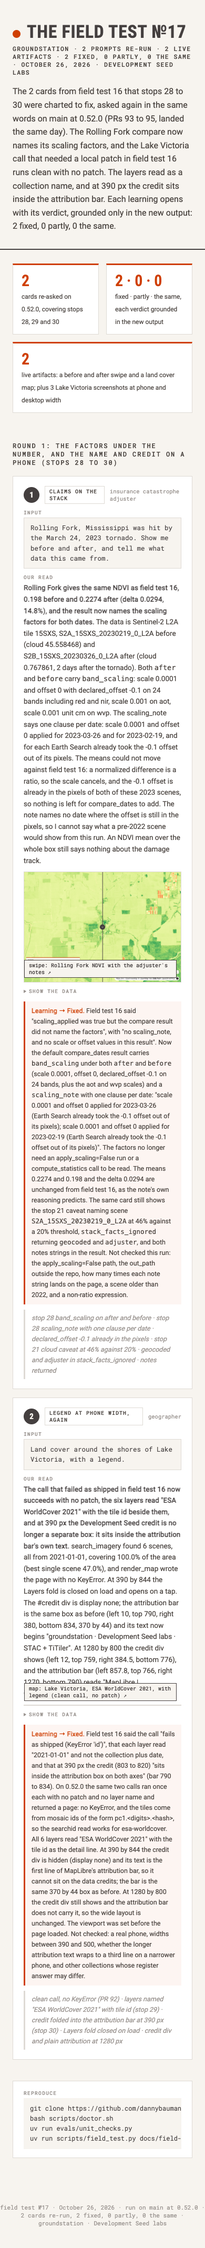
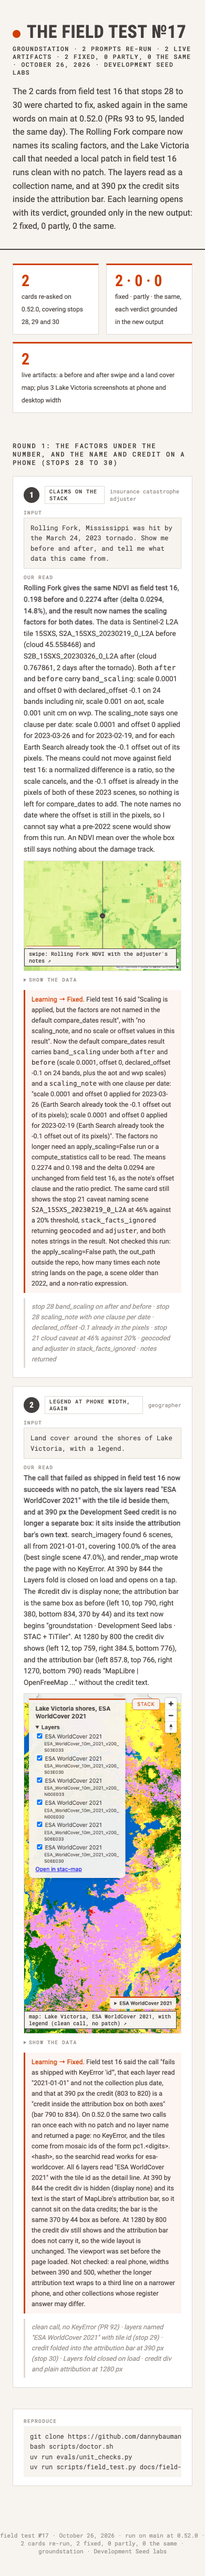
docs: field test 17, quotes verbatim and the 390 page shot with both figures loaded

diff --git a/docs/field-test-2026-10-26-no17.html b/docs/field-test-2026-10-26-no17.html
@@ -73,7 +73,7 @@ footer { text-align: center; font: 400 11px 'Roboto Mono', monospace; color: var
 <div class="grid">
 <div class="card"><div class="top"><div class="num">1</div><div class="tag">claims on the stack</div><div class="who">insurance catastrophe adjuster</div></div>
 <div><div class="label">Input</div><div class="prompt">Rolling Fork, Mississippi was hit by the March 24, 2023 tornado. Show me before and after, and tell me what data this came from.</div></div>
-<div class="answer"><div class="label">Our read</div><b>Rolling Fork gives the same NDVI as field test 16, 0.198 before and 0.2274 after (delta 0.0294, 14.8%), and the result now names the scaling factors for both dates.</b> The data is Sentinel-2 L2A tile 15SXS, S2A_15SXS_20230219_0_L2A before (cloud 45.558468) and S2B_15SXS_20230326_0_L2A after (cloud 0.767861, 2 days after the tornado). Both <code>after</code> and <code>before</code> carry <code>band_scaling</code>: scale 0.0001 and offset 0 with declared_offset -0.1 on 24 bands including red and nir, scale 0.001 on aot, scale 0.001 unit cm on wvp. The scaling_note says one clause per date: scale 0.0001 and offset 0 applied for 2023-03-26 and for 2023-02-19, and for each Earth Search already took the -0.1 offset out of its pixels. The means could not move against field test 16: a normalized difference is a ratio, so the scale cancels, and the -0.1 offset is already in the pixels of both of these 2023 scenes, so nothing is left for compare_dates to add. The note names no date where the offset is still in the pixels, so I cannot say what a pre-2022 scene would show from this run. An NDVI mean over the whole box still says nothing about the damage track.</div>
+<div class="answer"><div class="label">Our read</div><b>Rolling Fork gives the same NDVI as field test 16, 0.198 before and 0.2274 after (delta 0.0294, 14.8%), and the result now names the scaling factors for both dates.</b> The data is Sentinel-2 L2A tile 15SXS, S2A_15SXS_20230219_0_L2A before (cloud 45.558468) and S2B_15SXS_20230326_0_L2A after (cloud 0.767861, 2 days after the tornado). Both <code>after</code> and <code>before</code> carry <code>band_scaling</code>: scale 0.0001 and offset 0 with declared_offset -0.1 on 24 bands including nir, scale 0.001 on aot, scale 0.001 unit cm on wvp. The scaling_note says one clause per date: scale 0.0001 and offset 0 applied for 2023-03-26 and for 2023-02-19, and for each Earth Search already took the -0.1 offset out of its pixels. The means could not move against field test 16: a normalized difference is a ratio, so the scale cancels, and the -0.1 offset is already in the pixels of both of these 2023 scenes, so nothing is left for compare_dates to add. The note names no date where the offset is still in the pixels, so I cannot say what a pre-2022 scene would show from this run. An NDVI mean over the whole box still says nothing about the damage track.</div>
 <a class="fig" href="img/ft17-place-rolling-fork.html" target="_blank" title="open the live artifact"><img src="img/ft17-place-rolling-fork.png" alt="artifact produced by example 1" loading="lazy"><span class="open">swipe: Rolling Fork NDVI with the adjuster's notes ↗</span></a>
 <details class="data"><summary>show the data</summary><div class="returned">compare_dates(bbox=[-90.95, 32.86, -90.8, 32.96], window_before="2023-02-15T00:00:00Z/2023-03-23T23:59:59Z", window_after="2023-03-25T00:00:00Z/2023-04-01T23:59:59Z", max_cloud_cover=50, label="Rolling Fork NDVI", stack_facts={"geocoded": "nominatim", "adjuster": "claim file RF-2023-0324"}, out_path="docs/img/ft17-place-rolling-fork.html", notes=["Claim event: EF4 tornado, 2023-03-24, NWS Jackson", "Track hand-drawn from the damage survey, not from this imagery"])
   tile: 15SXS
@@ -92,7 +92,7 @@ footer { text-align: center; font: 400 11px 'Roboto Mono', monospace; color: var
   notes: ["Claim event: EF4 tornado, 2023-03-24, NWS Jackson", "Track hand-drawn from the damage survey, not from this imagery"]
   stack_facts_ignored: ["geocoded", "adjuster"]
   note: stack_facts takes provenance flags only (events, weather, passes, terrain, snapshot; geocoded is kept only for a bbox geocode returned, with the source it returned); put free text in notes</div></details>
-<div class="learning"><b>Learning →</b> <b>Fixed.</b> Field test 16 said "scaling_applied was true but the compare result did not name the factors", with "no scaling_note, and no scale or offset values in this result". Now the default compare_dates result carries <code>band_scaling</code> under both <code>after</code> and <code>before</code> (scale 0.0001, offset 0, declared_offset -0.1 on 24 bands, plus the aot and wvp scales) and a <code>scaling_note</code> with one clause per date: "scale 0.0001 and offset 0 applied for 2023-03-26 (Earth Search already took the -0.1 offset out of its pixels); scale 0.0001 and offset 0 applied for 2023-02-19 (Earth Search already took the -0.1 offset out of its pixels)". The factors no longer need an apply_scaling=False run or a compute_statistics call to be read. The means 0.2274 and 0.198 and the delta 0.0294 are unchanged from field test 16, as the note's own reasoning predicts. The same card still shows the stop 21 caveat naming scene <code>S2A_15SXS_20230219_0_L2A</code> at 46% against a 20% threshold, <code>stack_facts_ignored</code> returning <code>geocoded</code> and <code>adjuster</code>, and both notes strings in the result. Not checked this run: the apply_scaling=False path, the out_path outside the repo, how many times each note string lands on the page, a scene older than 2022, and a non-ratio expression.</div>
+<div class="learning"><b>Learning →</b> <b>Fixed.</b> Field test 16 said "Scaling is applied, but the factors are not named in the default compare_dates result", with "no scaling_note, and no scale or offset values in this result". Now the default compare_dates result carries <code>band_scaling</code> under both <code>after</code> and <code>before</code> (scale 0.0001, offset 0, declared_offset -0.1 on 24 bands, plus the aot and wvp scales) and a <code>scaling_note</code> with one clause per date: "scale 0.0001 and offset 0 applied for 2023-03-26 (Earth Search already took the -0.1 offset out of its pixels); scale 0.0001 and offset 0 applied for 2023-02-19 (Earth Search already took the -0.1 offset out of its pixels)". The factors no longer need an apply_scaling=False run or a compute_statistics call to be read. The means 0.2274 and 0.198 and the delta 0.0294 are unchanged from field test 16, as the note's offset clause and the ratio predict. The same card still shows the stop 21 caveat naming scene <code>S2A_15SXS_20230219_0_L2A</code> at 46% against a 20% threshold, <code>stack_facts_ignored</code> returning <code>geocoded</code> and <code>adjuster</code>, and both notes strings in the result. Not checked this run: the apply_scaling=False path, the out_path outside the repo, how many times each note string lands on the page, a scene older than 2022, and a non-ratio expression.</div>
 <div class="shows">stop 28 band_scaling on after and before · stop 28 scaling_note with one clause per date · declared_offset -0.1 already in the pixels · stop 21 cloud caveat at 46% against 20% · geocoded and adjuster in stack_facts_ignored · notes returned</div>
 </div>
 
@@ -124,7 +124,7 @@ Playwright, headless Chromium, viewport set before load, 6 s load plus 1 s after
   details.fold open on load: True
 
 screenshots: docs/img/ft17-victoria-390.png, docs/img/ft17-victoria-390-open.png, docs/img/ft17-victoria-1280.png</div></details>
-<div class="learning"><b>Learning →</b> <b>Fixed.</b> Field test 16 said the call "fails as shipped (KeyError 'id')", that each layer read "2021-01-01" and not the collection plus date, and that at 390 px the credit (803 to 820) "sits inside the attribution box on both axes" (bar 790 to 834). On 0.52.0 the same two calls ran once each with no patch and no layer name and returned a page: no KeyError, and the tiles come from mosaic ids of the form pc1.&lt;digits&gt;.&lt;hash&gt;, so the searchid read works for esa-worldcover. All 6 layers read "ESA WorldCover 2021" with the tile id as the detail line. At 390 by 844 the credit div is hidden (display none) and its text is the first line of MapLibre's attribution bar, so it cannot sit on the data credits; the bar is the same 370 by 44 box as before. At 1280 by 800 the credit div still shows and the attribution bar does not carry it, so the wide layout is unchanged. The viewport was set before the page loaded. Not checked: a real phone, widths between 390 and 500, whether the longer attribution text wraps to a third line on a narrower phone, and other collections whose register answer may differ.</div>
+<div class="learning"><b>Learning →</b> <b>Fixed.</b> Field test 16 said the call "fails as shipped with KeyError 'id'", that each layer read "2021-01-01" and not the collection plus date, and that at 390 px the credit (803 to 820) is a "credit inside the attribution box on both axes" (bar 790 to 834). On 0.52.0 the same two calls ran once each with no patch and no layer name and returned a page: no KeyError, and the tiles come from mosaic ids of the form pc1.&lt;digits&gt;.&lt;hash&gt;, so the searchid read works for esa-worldcover. All 6 layers read "ESA WorldCover 2021" with the tile id as the detail line. At 390 by 844 the credit div is hidden (display none) and its text is the start of MapLibre's attribution bar, so it cannot sit on the data credits; the bar is the same 370 by 44 box as before. At 1280 by 800 the credit div still shows and the attribution bar does not carry it, so the wide layout is unchanged. The viewport was set before the page loaded. Not checked: a real phone, widths between 390 and 500, whether the longer attribution text wraps to a third line on a narrower phone, and other collections whose register answer may differ.</div>
 <div class="shows">clean call, no KeyError (PR 92) · layers named "ESA WorldCover 2021" with tile id (stop 29) · credit folded into the attribution bar at 390 px (stop 30) · Layers fold closed on load · credit div and plain attribution at 1280 px</div>
 </div>
 </div>
